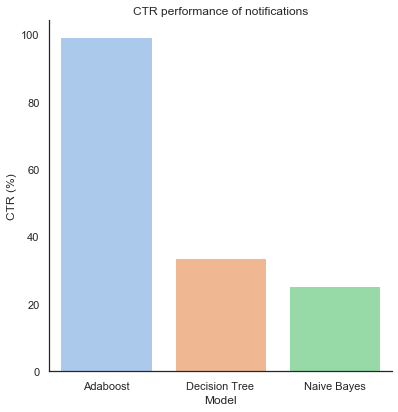
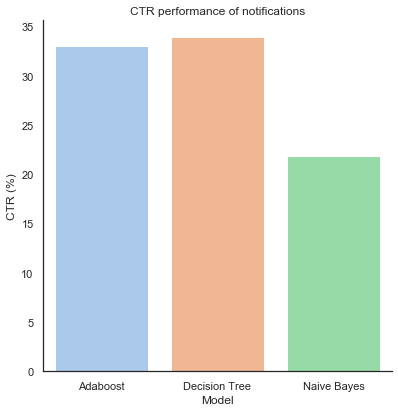
Updated readme and added Task 2 logic

diff --git a/README.md b/README.md
@@ -149,9 +149,58 @@ When run, results should approximate:
 
 
 ## Running task 2
-To be added.
+A jupyter notebook named *Example_evalumap2-v0* is provided in the docs folder demonstrating how to set up the relevant environment for this task and interact with it. The following is a brief extract from it illustrating a random model being evaluated:
 
-## Submitting results
+```sh
+import gym
+import pandas as pd
+
+env = gym.make('gym_push:evalumap2-v0')
+
+context = env.reset(test=False, verbosity=3000)
+finished = False
+epoch = 0
+
+while not finished:
+    context, engagement, finished, info = env.step(pd.DataFrame([env.action_space.sample()]))
+    
+    if epoch%3000==0 and epoch>0:
+        print('------------- Epoch: '+str(epoch)+' ------------------')
+        print('Latest CTR score', info['ctr'][-1]['ctr_score'])
+        print('Latest Diversity score', info['diversity'][-1]['score'])
+        print('Latest Enticement score', info['enticement'][-1]['score'])
+        
+    epoch += 1
+    
+```
+When run, results should approximate:
+```sh
+Resetting environment.
+Updated results at epoch:  3000
+------------- Epoch: 3000 ------------------
+Latest CTR score 21.959346884371875
+Latest Diversity score 100.0
+Latest Enticement score 52.0326557814062
+Updated results at epoch:  6000
+------------- Epoch: 6000 ------------------
+Latest CTR score 21.379770038326946
+Latest Diversity score 100.0
+Latest Enticement score 50.733211131478086
+Updated results at epoch:  9000
+------------- Epoch: 9000 ------------------
+Latest CTR score 21.475391623152984
+Latest Diversity score 100.0
+Latest Enticement score 50.205532718586824
+Finished. Saving final results at epoch:  9313
+```
+<p align="center">
+    <img src="docs/img/ctr_task2_example.png" width="30%"/> <img src="docs/img/enticement_task2_example.png" width="30%"/> <img src="docs/img/diversity_task2_example.png" width="30%"/> 
+</p>
+<p align="center">
+    <img src="docs/img/ctr_task2_epoch.png" width="30%"/> <img src="docs/img/enticement_task2_epoch.png" width="30%"/> <img src="docs/img/diversity_task2_epoch.png" width="30%"/> 
+</p>
+
+## Submitting results from gym-push
 To be added.
 
 ## Submitting your Results Overview paper
@@ -160,7 +209,7 @@ Papers should be submitted in pdf format through the [EasyChair system](https://
 
 Your paper should include the following:
 
-- Brief description of the EvalUMAP challenge to set context & link to the challenge at github (https://github.com/kieranfraser/gym-push).  
+- Brief description of the EvalUMAP challenge to set context & link to the challenge on GitHub (https://github.com/kieranfraser/gym-push).  
 - Description of the technique that you implemented and your main objectives and progress beyond the state-of-the-art if applicable.
 - The results you obtained.
 - Thoughts on future work.
